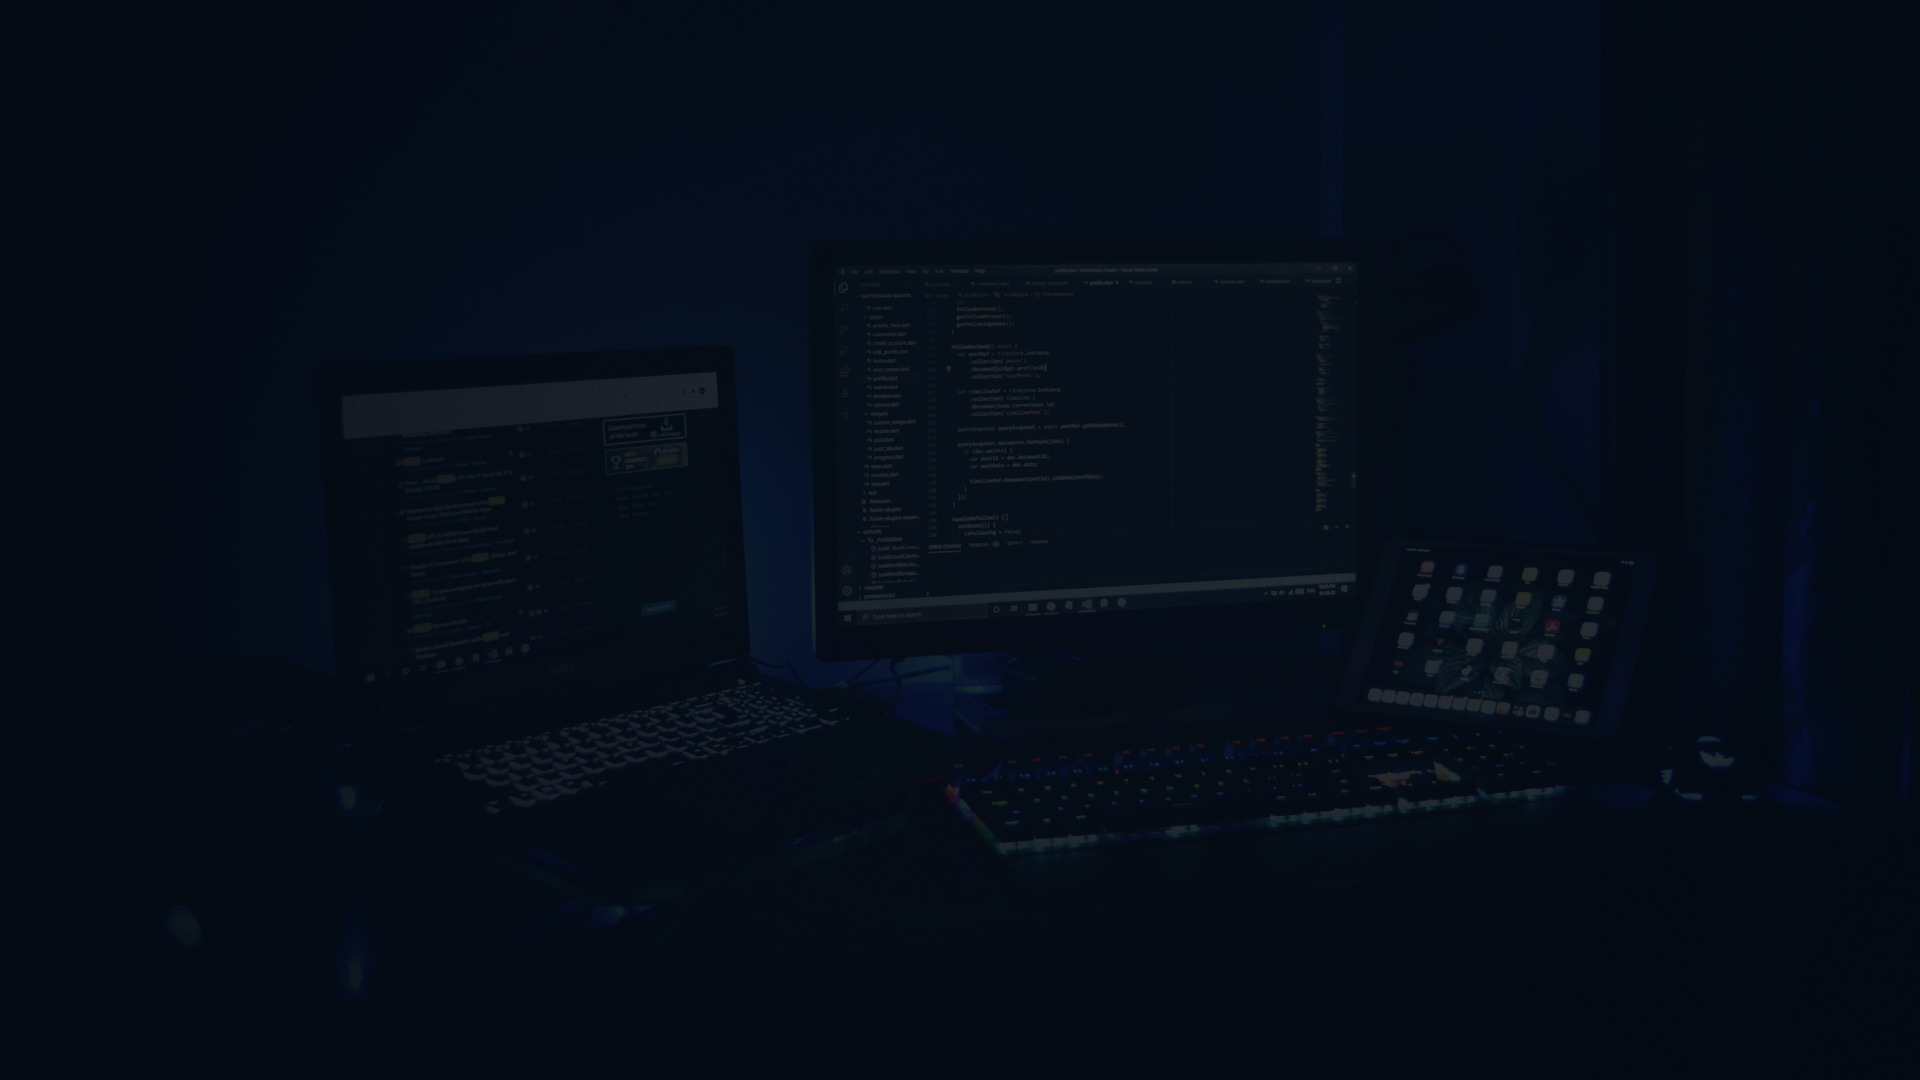
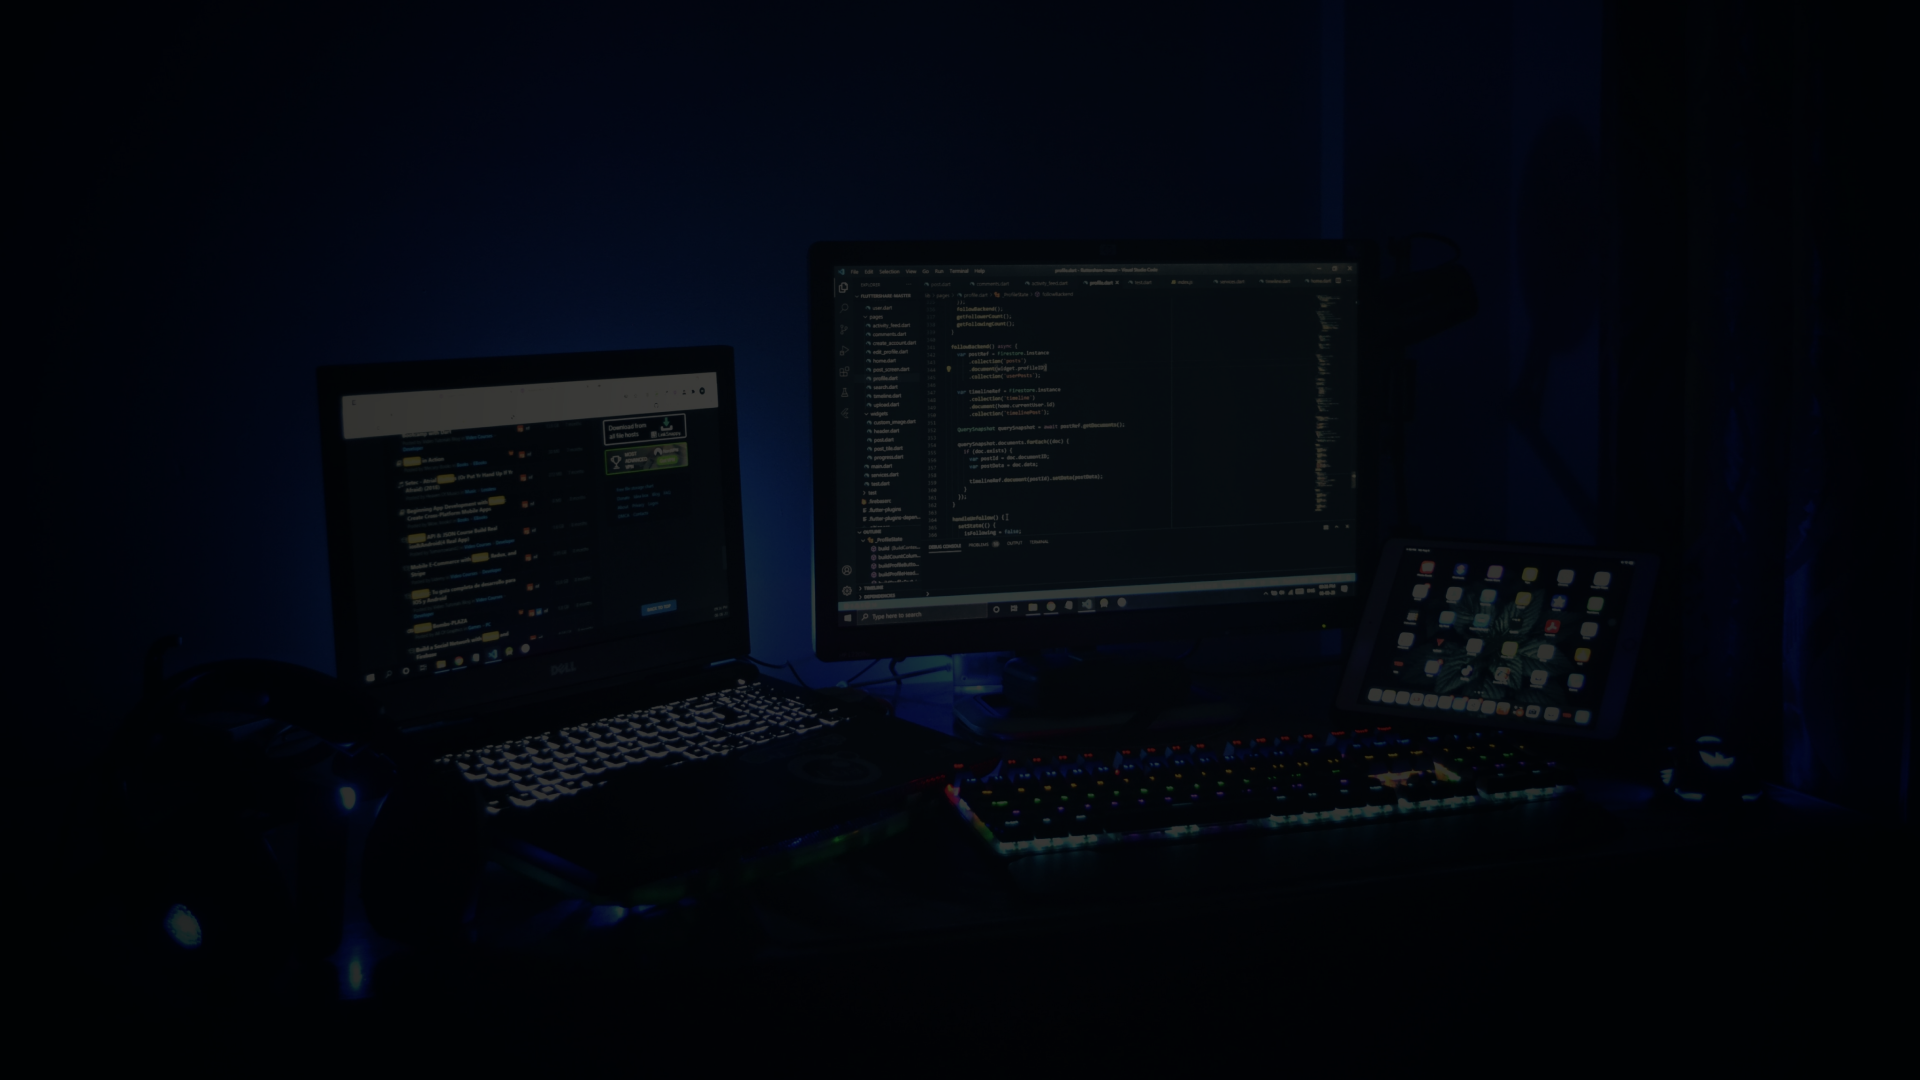
added fixed background behind scrolling background

diff --git a/src/App.js b/src/App.js
@@ -16,21 +16,23 @@ function App() {
         <Element id='section1' name="home" className="section">
           <Home />
         </Element>
-        <Element id='section2' name="about" className="section">
-          <About />
-        </Element>
-        <Element id='section3' name="skills" className="section">
-          <Skills />
-        </Element>
-        <Element id='section4' name="education" className="section">
-          <Education />
-        </Element>
-        <Element id='section5' name="experience" className="section">
-          <Experience />
-        </Element>
-        <Element id='section6' name="contact" className="section">
-          <Contact />
-        </Element>
+        <div className='sub-content-container'>
+          <Element id='section2' name="about" className="section">
+            <About />
+          </Element>
+          <Element id='section3' name="skills" className="section">
+            <Skills />
+          </Element>
+          <Element id='section4' name="education" className="section">
+            <Education />
+          </Element>
+          <Element id='section5' name="experience" className="section">
+            <Experience />
+          </Element>
+          <Element id='section6' name="contact" className="section">
+            <Contact />
+          </Element>
+        </div>
       </div>
     </div>
   );

diff --git a/src/components/sidenavbar/SideNavBar.css b/src/components/sidenavbar/SideNavBar.css
@@ -1,28 +1,29 @@
 nav {
+    --fs: 19px;
     position: fixed;
     left: 0;
     top: 0;
     height: 100%;
     width: 300px;
     background-color: var(--dark);
-    font-size: 18px;
+    font-size: var(--fs);
     color: var(--light);
     display: flex;
     flex-direction: column;
     align-items: center;
-    /* box-shadow: 0 0 10px 5px rgba(65, 105, 225, 0.1); */
-    /* border-right: 1px solid var(--light); */
+    box-shadow: 0 0 10px 5px rgba(0, 0, 0, 0.1);
+    border-right: 1px solid rgba(var(--primary-rgb), 0.3);
 }
 
 nav ul {
   list-style-type: none;
   align-self: flex-start;
-  margin: 12vh 0 0 0;
+  margin: 10vh 0 0 30px;
   padding: 0;
 }
 
 nav li {
-  padding: 20px;
+  padding: 24px 0;
 }
 
 .nav-header {
@@ -56,12 +57,13 @@ nav li {
 }
 
 .active {
-  font-size: 20px;
+  font-size: calc(var(--fs) + 2px);
 }
 
 .active p {
   color: var(--light);
 }
+
 .active i {
   color: var(--primary);
 }
@@ -72,7 +74,7 @@ nav i {
 }
 
 nav p {
-  padding-left: 12px;
+  padding-left: 14px;
   display: inline;
 }
 
@@ -82,11 +84,11 @@ nav p {
 
 @keyframes slide-right {
   0% {
-      transform: translateX(-150px);
-      opacity: 0;
-    }
-    100% {
-      transform: translateX(0);
-      opacity: 1;
-    }
+    transform: translateX(-150px);
+    opacity: 0;
+  }
+  100% {
+    transform: translateX(0);
+    opacity: 1;
+  }
 }

diff --git a/src/components/about/About.js b/src/components/about/About.js
@@ -8,11 +8,11 @@ const About = () => {
         const windowHeight = window.innerHeight;
       
         if (scrollPosition > sectionPosition - windowHeight + 150 && scrollPosition < sectionPosition + 150) {
-          section.classList.add('about-animated');
+            section.classList.add('about-animated');
         } else {
             section.classList.remove('about-animated');
         }
-      });
+    });
     return (
         <div className='about-container'>
             <h1 className='about-section'>About</h1>

diff --git a/src/components/home/Home.css b/src/components/home/Home.css
@@ -1,13 +1,14 @@
 .home-bg-container {
-    background-image: url('../../images/home_dark.png');
+    /* background-image: url('../../images/home.png'); */
+    /* background-color: var(--dark); */
     background-size: cover;
     background-repeat: no-repeat;
     background-position: left;
-    background-color: var(--dark);
     height: 100vh;
     color: var(--light);
     display: flex;
     justify-content: center;
+    /* box-shadow: 0 0 200px 30px rgba(var(--primary-rgb), 0.15); */
 }
 
 .home-container {

diff --git a/src/App.css b/src/App.css
@@ -1,10 +1,17 @@
 .app-container {
     display: flex;
-    /* background-color: var(--dark); */
 }
 
 .content-container {
     flex-grow: 1;
     padding-left: 300px;
     color: var(--light);
+    background-image: url('/src/images/home_dark.png');
+    background-attachment: fixed;
+    background-position: left;
+}
+
+.sub-content-container {
+    background-image: url('/src/images/patterns/diamonds.png');
+    background-position: center 100vh;
 }

diff --git a/src/index.css b/src/index.css
@@ -1,9 +1,16 @@
 :root {
   --primary: #4169e1;
+  --primary-red: #ff5a5f;
   --dark: #040b14;
-  --shade: #212431;
+  --dark-red: #190303;
   --accent: #78818f;
   --light: #ffffff;
+  --primary-rgb: 65, 105, 225;
+  --primary-red-rgb: 255, 90, 95;
+  --dark-rgb: 5, 12, 20;
+  --dark-red-rgb: 5, 3, 3;
+  --accent-rgb: 120, 129, 143;
+  --light-rgb: 255, 255, 255;
 }
 
 body {

diff --git a/src/components/typewriter/TypeWriter.css b/src/components/typewriter/TypeWriter.css
@@ -13,9 +13,11 @@
 }
 
 .wrap {
+    background: linear-gradient(to right, var(--primary), var(--primary-red));
+    background-clip: text;
+    color: transparent;
     border-right: 0.08em solid var(--light);
     animation: blink 1s infinite;
-    color: var(--primary);
 }
 
 .text {

diff --git a/src/components/about/About.css b/src/components/about/About.css
@@ -1,5 +1,6 @@
 .about-container {
-    background-color: green;
+    /* background-color: green; */
+    /* background-image: url('/src/images/patterns/black_scales.png'); */
     height: 100vh;
     display: flex;
     flex-direction: column;

diff --git a/src/components/skills/Skills.css b/src/components/skills/Skills.css
@@ -1,4 +1,4 @@
 .skills-container {
-    background-color: blue;
+    /* background-color: blue; */
     height: 100vh;
 }
